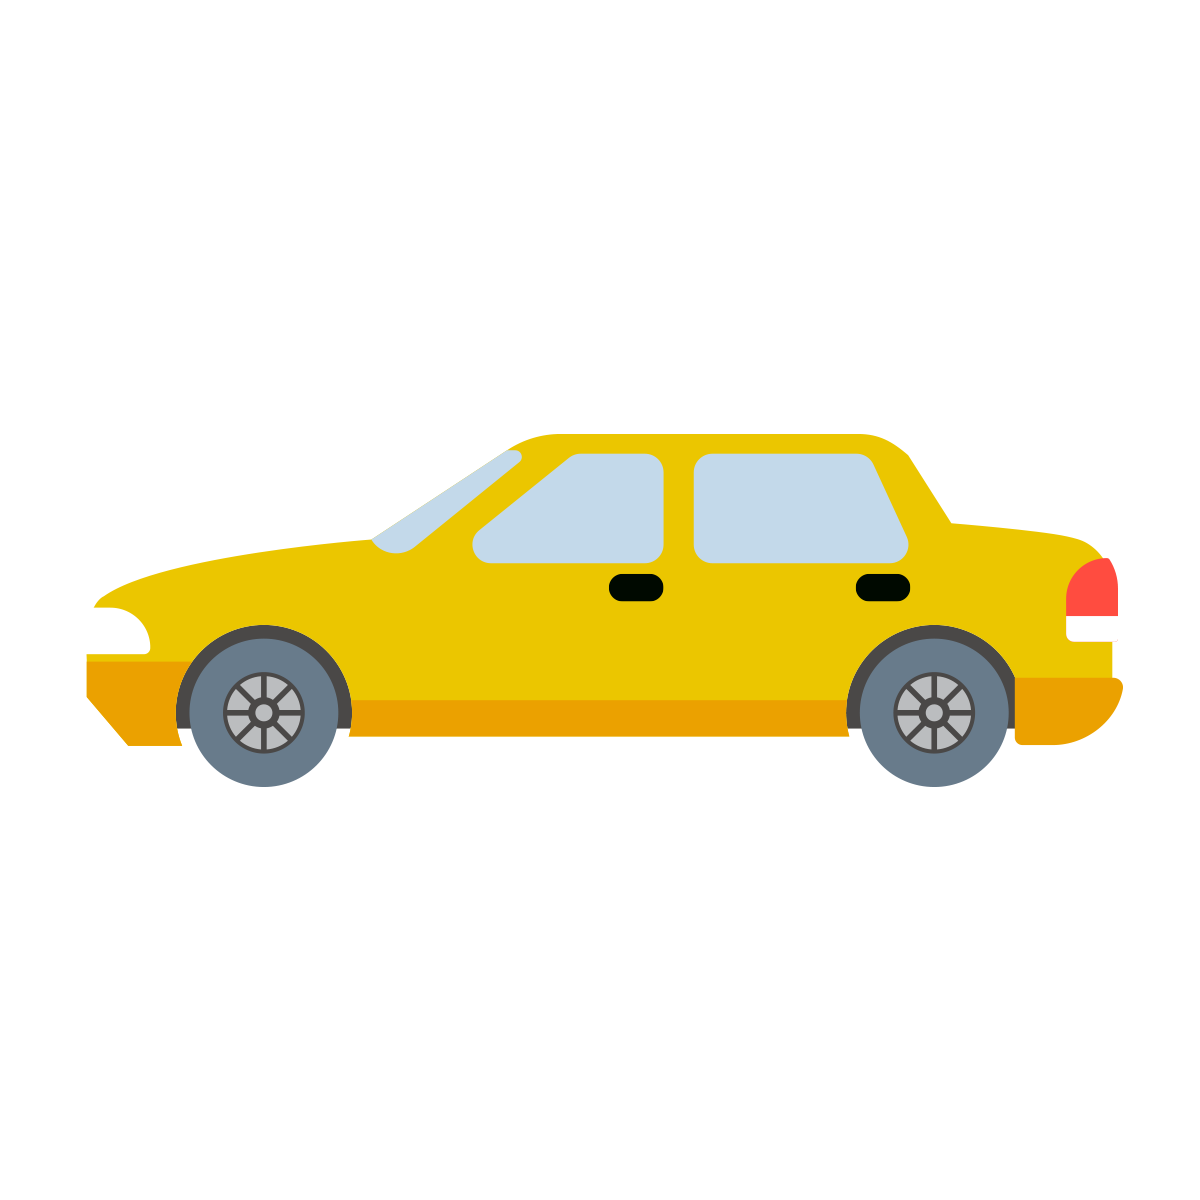
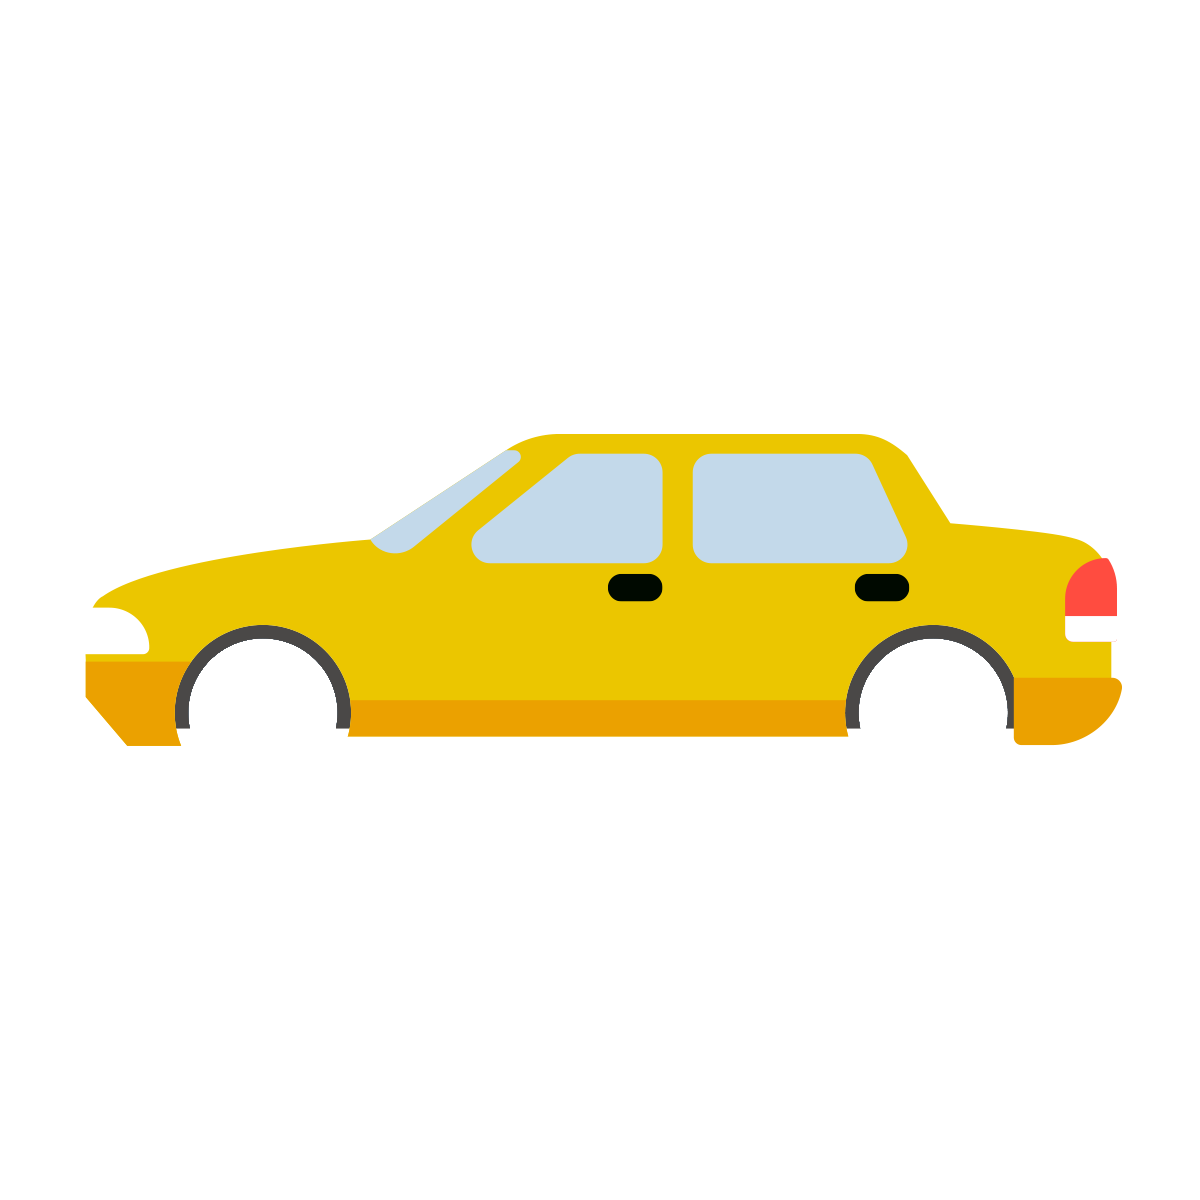
completed task

Changed region(s): [[0.7092, 0.5242, 0.8633, 0.6783], [0.1542, 0.5242, 0.3083, 0.6783]]

diff --git a/style.css b/style.css
@@ -2,5 +2,53 @@
   width: 800px;
   height: 458px;
   margin: 50px;
-  background: url('road.jpg');
+  background:  url('road.jpg') repeat;
+  position: relative;
+  animation: moveRoad 1s linear infinite;
+}
+.car {
+  position: relative;
+  width: 300px;
+  height: 300px;
+  top: 250px;
+  left: 339px;
+}
+.body {
+  width: 300px;
+  height: 300px;
+  position: relative;
+  top: 0px;
+  left: 0px;
+}
+.wheel1 {
+  width: 45px;
+  height: 45px;
+  position: absolute;
+  top: 155px;
+  left: 43px;
+  animation: move 1s linear infinite;
+}
+.wheel2 {
+  width: 45px;
+  height: 45px;
+  position: absolute;
+  top: 155px;
+  left: 211px;
+  animation: move 1s linear infinite;
+}
+@keyframes move {
+  0% {
+    transform: rotate(0deg);
+  }
+  100% {
+    transform:rotate(360deg);
+  }
+}
+@keyframes moveRoad {
+  0% {
+    background-position: 0px 0;
+  }
+  100% {
+    background-position: 800px 0;
+  }
 }

diff --git a/index.html b/index.html
@@ -9,6 +9,12 @@
 </head>
 <body>
   <h1>29.03.2021</h1>
-  <div class="content"></div>
+  <div class="content">
+    <div class="car">
+      <img class="body" src="car.png" alt="">
+      <img class="wheel1" src="wheels.png" alt="">
+      <img class="wheel2" src="wheels.png" alt="">
+    </div>
+  </div>
 </body>
 </html>
